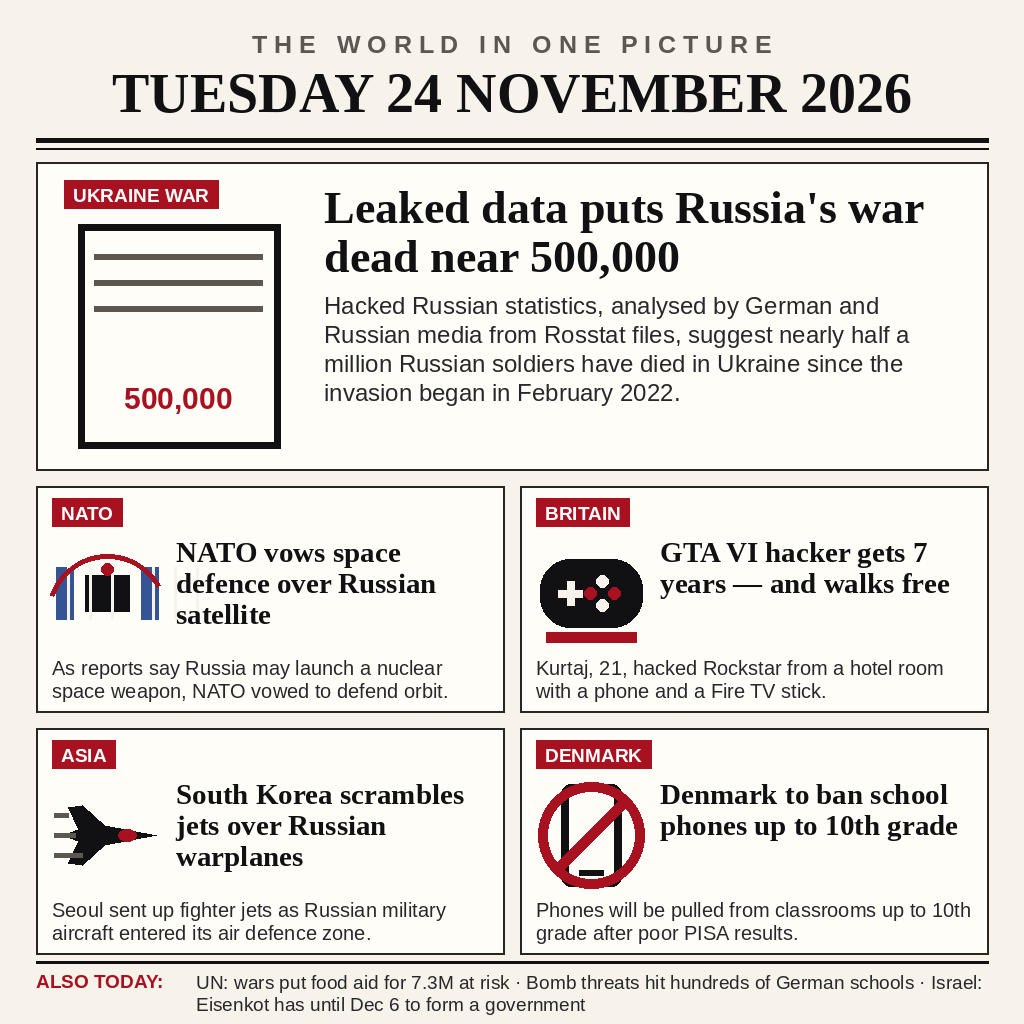
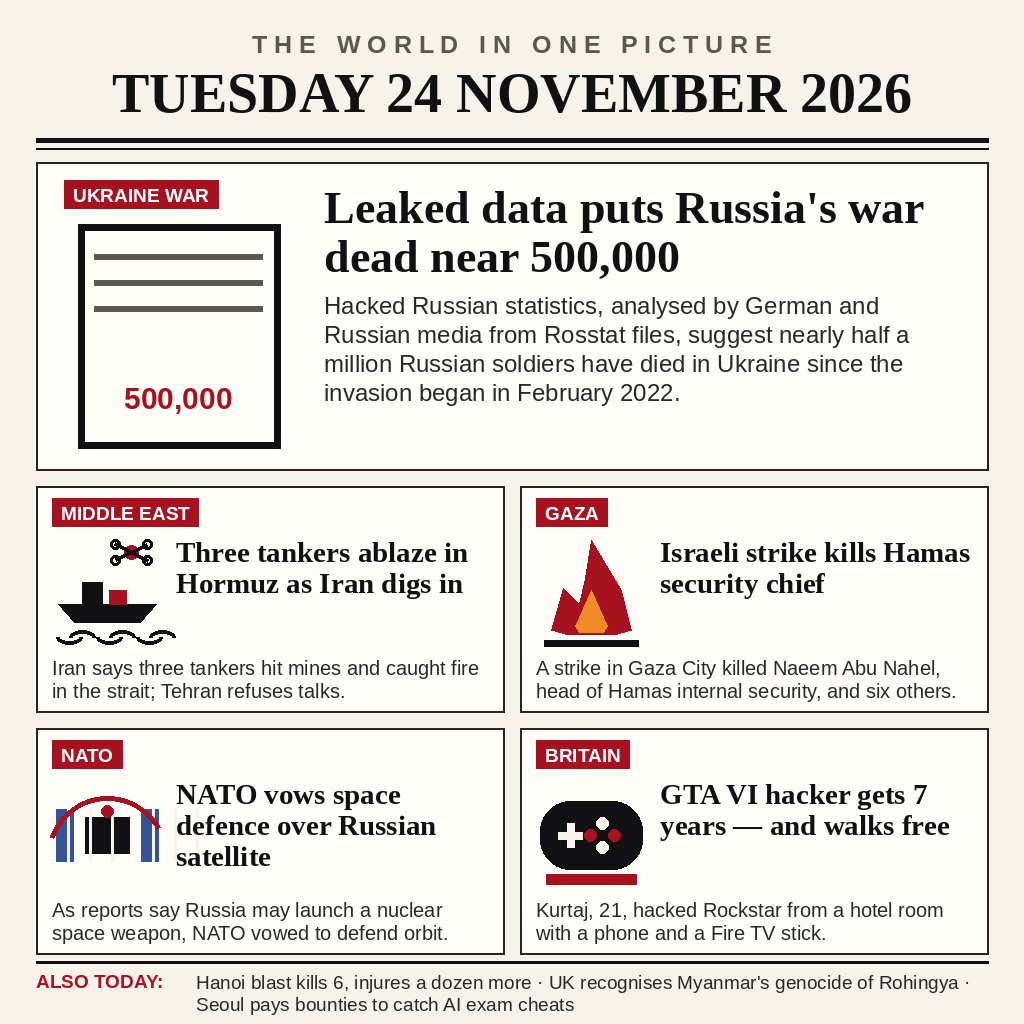
Add files via upload

diff --git a/main.ts b/main.ts
@@ -2,10 +2,12 @@
 //
 // The picture is entry.png in this folder: a broadsheet-style poster of the
 // day's world news, drawn by draw.py from the stories in day24.py (leaked
-// data putting Russia's war dead near 500,000, NATO's space-defence vow,
-// the GTA VI hacker's sentence, South Korea's jet scramble and Denmark's
-// school phone ban). This program's whole job is to hand that picture to
-// the grader: copy entry.png into the output directory — MAKEFUN_OUTPUT_DIR
+// data putting Russia's war dead near 500,000, three tankers ablaze in the
+// Strait of Hormuz, the Israeli strike that killed Hamas's security chief,
+// NATO's space-defence vow and the GTA VI hacker's sentence). Final edition,
+// rebuilt once the whole day's news was in. This program's whole job is to
+// hand that picture to the grader: copy entry.png into the output
+// directory — MAKEFUN_OUTPUT_DIR
 // when set, /output in the grading sandbox.
 
 import { copyFileSync, mkdirSync } from 'node:fs';

diff --git a/day24.py b/day24.py
@@ -11,6 +11,20 @@ DAY = {
     },
     "cards": [
         {
+            "tag": "MIDDLE EAST",
+            "icon": "ship",
+            "headline": "Three tankers ablaze in Hormuz as Iran digs in",
+            "summary": "Iran says three tankers hit mines and caught fire in the "
+                       "strait; Tehran refuses talks.",
+        },
+        {
+            "tag": "GAZA",
+            "icon": "flame",
+            "headline": "Israeli strike kills Hamas security chief",
+            "summary": "A strike in Gaza City killed Naeem Abu Nahel, head of "
+                       "Hamas internal security, and six others.",
+        },
+        {
             "tag": "NATO",
             "icon": "satellite",
             "headline": "NATO vows space defence over Russian satellite",
@@ -24,24 +38,10 @@ DAY = {
             "summary": "Kurtaj, 21, hacked Rockstar from a hotel room with a phone "
                        "and a Fire TV stick.",
         },
-        {
-            "tag": "ASIA",
-            "icon": "jet",
-            "headline": "South Korea scrambles jets over Russian warplanes",
-            "summary": "Seoul sent up fighter jets as Russian military aircraft entered "
-                       "its air defence zone.",
-        },
-        {
-            "tag": "DENMARK",
-            "icon": "phone",
-            "headline": "Denmark to ban school phones up to 10th grade",
-            "summary": "Phones will be pulled from classrooms up to 10th grade after "
-                       "poor PISA results.",
-        },
     ],
     "ticker": [
-        "UN: wars put food aid for 7.3M at risk",
-        "Bomb threats hit hundreds of German schools",
-        "Israel: Eisenkot has until Dec 6 to form a government",
+        "Hanoi blast kills 6, injures a dozen more",
+        "UK recognises Myanmar's genocide of Rohingya",
+        "Seoul pays bounties to catch AI exam cheats",
     ],
 }
